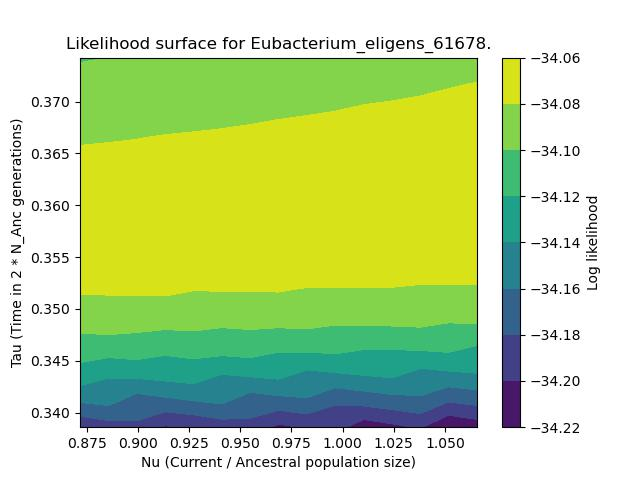
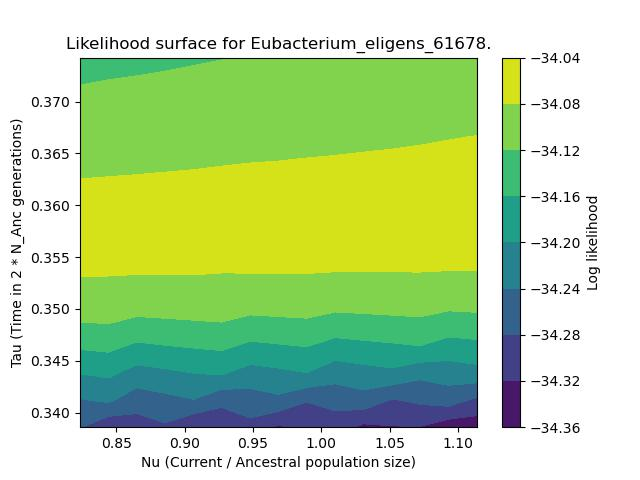
E. eligens

diff --git a/Scripts/plot_likelihood.py b/Scripts/plot_likelihood.py
@@ -471,7 +471,7 @@ class PlotLikelihood():
                 # y_range = numpy.linspace(y  * 0.9, y * 1.3, npts)
 
                 # E. eligens
-                x_range = numpy.linspace(x * 0.9, x * 1.1, npts)
+                x_range = numpy.linspace(x * 0.85, x * 1.15, npts)
                 y_range = numpy.linspace(y * 0.95, y * 1.05, npts)
                 
 
